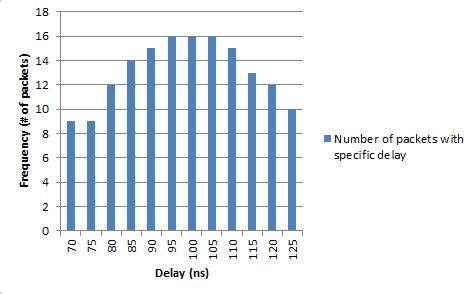
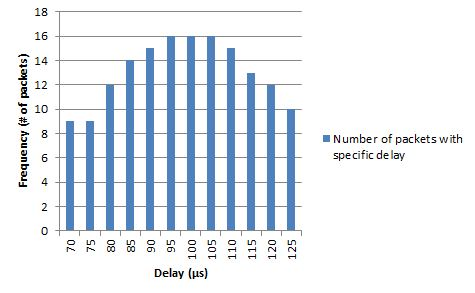
Final modifications done

Changed region(s): [[0.0295, 0.0307, 0.6498, 0.8908], [0.6793, 0.4608, 0.9747, 0.5529], [0.3249, 0.8908, 0.443, 0.9522]]

diff --git a/doc/thesis/report.tex b/doc/thesis/report.tex
@@ -119,38 +119,40 @@ Cette étude conduit à la création d'un prototype qui propose une infrastructu
 
 \section{Importance of Study}
 \paragraph{}
-The global electrical grid is the basis that gives us this quality of life that most people around the world enjoy. The global electrical grid is sometimes called the largest machine ever made by man \cite{ref1}. It is a widespread and distributed machine that provides power to households, companies and organizations. Therefore the whole world's economy depends on it. The electrical grid knows numerous problems such as blackouts, and current instabilities that cost billions of dollars yearly to both the utilities and insurances. The grid suffers from the problem of peak hours where energy consumption is at its highest level and that one single utility cannot provide.
+The global electrical grid is the basis that gives us this quality of life that most people around the world enjoy. The global electrical grid is sometimes called the largest machine ever made by man \cite{ref1}. It is a widespread and distributed machine that provides power to households, companies and organizations. Therefore the whole world's economy depends on it. The electrical grid knows numerous problems such as blackouts, and current instabilities that cost billions of dollars yearly to both the utilities and insurances.
 \paragraph{}
-The \glsreset{sg}\gls{sg} comes as a solution to the problems of the traditional electrical grid. \gls{sg} is an intelligent, auto-balancing, self-monitoring, and self-healing electrical grid \cite{ref2} and whose energy sources are distributed between utilities and consumers. The nature of the \gls{sg} as having distributed energy sources, reduces numerous losses that arise from the long distance transmission lines, and also from the stress and the overload of the electrical lines.
+The global energy demand is significantly growing and the sources of energy such as fossil energies is becoming more scarce. Therefore, there is a need to move from depending on fossil energy sources to renewable energies such as Solar energy, wind energy and thermal energy. In addition, these renewable energies should be distributed throughout the power grid and permit to have less energy transmission costs.
+\paragraph{}
+The \glsreset{sg}\gls{sg} comes as a solution to the weaknesses of the traditional electrical grid. \gls{sg} is an intelligent, auto-balancing, self-monitoring, and self-healing electrical grid \cite{ref2} and whose energy sources are distributed between utilities and consumers. The nature of the \gls{sg} as having distributed energy sources, reduces numerous losses that arise from the long distance transmission lines, and also from the stress and the overload of the electrical lines.
 \paragraph{}
 Another revolution began, and it is taking place in the Information Technology. It is called the \glsreset{iot}\gls{iot}. \gls{iot} is the era of autonomous machine being able to produce and consume information, and being able to act autonomously without the guidance of humans, to perform their tasks. Cisco predicts that the number of devices to be connected to the Internet in 2020 will break the 50 billions devices from 500 million in 2003. That would make 6.58 devices connected for each person in the world whereas that same ratio was 0.07 17 years earlier \cite{ref3}. This clearly shows that the shift to the \gls{iot} will be exponential.
 \paragraph{}
-\glsreset{sg}\gls{sg} should benefit from the \gls{iot}. The integration of the \gls{sg} into the \gls{iot} constitutes the main topic of this study and goes along with increasing interest recently raised in both academia and industry, on the inherent correspondence between \gls{sg} and \gls{iot}. This  correspondence stems mainly from the need to disseminate information between the \gls{sg} components in order to make optimal decisions about energy use. This information dissemination could only be optimal when deploying ubiquitous sensoring and metering, and using the available network infrastructure, i.e. the Internet.   
+\glsreset{sg}\gls{sg} should benefit from the \gls{iot}. This integration should constitute the main topic of this study and goes along with increasing interest recently raised in both academia and industry, on the inherent correspondence between \gls{sg} and \gls{iot}. This  correspondence stems mainly from the need to disseminate information between the \gls{sg} components in order to make optimal decisions about energy use. This information dissemination could only be optimal when deploying ubiquitous sensoring and metering, and using the available network infrastructure, i.e. the Internet.   
 
 
 \section{Rationale of Study}
 \paragraph{}
-This project has been done in order to investigate ways the \gls{iot} can benefit the \gls{sg}. The Smart Grid needs a set of novel functionalities. One of these ideas is the two-way communication that will make it possible for the utility to communicate with consumers and vice versa. This is possible in the Internet Of Things as devices in \gls{iot} communicate by producing and consuming information. Numerous ideas assume the existence of the two-way communication such as the \gls{dr} which offers a set of services for both the power provider and the consumer.
+This project has been done in order to investigate ways the \gls{iot} can benefit the \gls{sg}. The Smart Grid needs a set of novel functionalities. One of these is the two-way communication that will make it possible for the utility to communicate with consumers and vice versa. This is possible in the Internet Of Things as devices in \gls{iot} communicate by producing and consuming information. Numerous ideas assume the existence of the two-way communication such as the \gls{dr} which offers a set of services for both the power provider and the consumer.
 \paragraph{}
-The \glsreset{iot}\gls{iot} uses different technologies such as \gls{wsn}, \gls{rfid}, \gls{ipv6} and \gls{6lowpan}\glsreset{6lowpan} which makes the Internet of Things a very heterogeneous and complex system \cite{ref4}. One of the challenges in \gls{iot} is to deal with this heterogeneity in order to make the communication smooth and transparent to the parties involved. This heterogeneity should become invisible to any two devices willing to communicate in the \gls{iot}.
+The \glsreset{iot}\gls{iot} uses different technologies such as \gls{wsn}, \gls{rfid}, \gls{ipv6} and \gls{6lowpan}\glsreset{6lowpan} which makes the Internet of Things a very heterogeneous and complex system \cite{ref4}. One of the challenges is to deal with this heterogeneity in order to make the communication smooth and transparent to the parties involved. This heterogeneity should become invisible to any two devices willing to communicate in the \gls{iot}.
 
 \section{Problem Statement}
 \paragraph{}
-The \glsreset{sg} \gls{sg} relies on the two-way communication to build a whole communication framework and a protocol stack namely the \glsreset{dr}\gls{dr} and other services built on top of this last. From the consumer's/household's perspective or more precisely the household's side,there are smart home energy management systems in the market nowadays, but none of them offers an integration with \gls{sg}. To have such an integration with \gls{sg}, there is a need for the two-way communication, in order to make it possible for any appliance to report its real-time energy consumption, and to be able to be controlled remotely. Such pillar is missing for the time being, and therefore the integration of the smart home within the smart grid is not possible. Also, in order for \gls{sg} to be integrated into the \gls{iot}, all devices should be able to communicate in the two ways.
+The \glsreset{sg} \gls{sg} relies on the two-way communication to build a whole communication framework and a protocol stack namely the \glsreset{dr}\gls{dr} and other services built on top of this last. From the consumer's/household's perspective or more precisely the household's side,there are smart energy management systems in the market nowadays, but none of them offers an integration with \gls{sg}. Such an integration through the two-way communication will to make it possible for any appliance to report its real-time energy consumption, and to be controlled remotely. Such pillar is missing for the time being, and therefore the integration of the smart home within the smart grid is not doable. Also, in order for \gls{sg} to be integrated into the \gls{iot}, all devices should be able to communicate in the two ways.
 \paragraph{}
-\gls{sg} counts on various technologies to achieve its main goals. This use of different technologies comes with a problem which is the heterogeneous nature of the system. As numerous components count on different technologies, there is a need to interface them in order to make this heterogeneity transparent to the all components of the system. As a matter of fact, a software should be built within the system whose main goal is to take care of making the communication technology-transparent. This component will give the possibility to all components of the system to work hand-in-hand in order to achieve their goals independently of the data link layer (Ethernet, Wifi or Zigbee) or the network layer technology (\gls{ipv4} or \gls{ipv6}) they are using.
+\gls{sg} counts on various technologies to achieve its main goals. The use of different technologies comes at a cost which is the heterogeneous nature of the system. As numerous components count on different technologies, there is a need to interface them in order to make this heterogeneity transparent to the all components of the system. As a matter of fact, a software should be built within the system whose main goal is to take care of making the communication technology-transparent. This component will give the possibility to all components of the system to work hand-in-hand in order to achieve their goals independently of the data link layer (Ethernet, Wifi or Zigbee) or the network layer technology (\gls{ipv4} or \gls{ipv6}) they are using.
 
 \section{Purpose of Study}
  \paragraph{}
-The goal of the study is to solve the problems introduced in the problem statement section. This means creating the two-way communication, and solving the heterogeneity that arises from integrating smart homes with the smart grid. In fact, each components in the smart home will become part of the Internet of Things by making it communicate with any device in the Internet by having an \gls{ipv6} address using \gls{6lowpan} whose goal is to provide the TCP/IP to the smallest devices and also those with the least computational resources.
+The goal of the study is create the two-way communication, and solve the heterogeneity that arises from integrating smart homes with the smart grid. In fact, each components in the smart home will become part of the Internet of Things by making it communicate with any device in the Internet by having an \gls{ipv6} address using \gls{6lowpan} whose goal is to provide the TCP/IP to the smallest devices and also those with the least computational resources.
 \paragraph{}
-The first purpose of this study is to create a testbed having the two-way communication and also being able to make use of it in order to build richer applications based on it. To do so, \gls{6lowpan} would had to be integrated within every device in the \gls{wsn}. This would make every sensor node (mote) identifiable in the network, ready to communicate and be part of the \gls{iot}. This communication will go in both directions and based on \gls{6lowpan}; the two-way communication will be built.
+The first purpose of this study is to create a testbed with the two-way communication. To do so, \gls{6lowpan} would had to be integrated within every device in the \gls{wsn}. This would make every sensor node (mote) identifiable in the network, ready to communicate and be part of the \gls{iot}. This communication will go in both directions and based on \gls{6lowpan}; the two-way communication will be built.
 \paragraph{}
-The second purpose of this study is to solve the heterogeneity problem that arises from the integration of smart homes into the grid and also when making the whole system part of the \glsreset{iot}\gls{iot}. Solving such a problem means having an extra component that will track all  packets and change them to fit the standards of the targeted component. This will make of this additional component a middleman and that would make the heterogeneity problem disappear.
+The second purpose of this study is to hide the heterogeneity that arises from the integration of smart homes into the grid and also when making the whole system part of the \glsreset{iot}\gls{iot}. To solve such a problem, we add an extra component that will track all  packets and change them to fit the standards of the targeted component.
 
 \section{Scope of Study}
 \paragraph{}
-This study aims at solving the two problems presented in section 1.3. To do so, a variety of tools and technologies were used for this purpose.The two problems could not be solved one independently of the other. Even though the problems seems to be separate, one cannot solve  the first problem without having to solve the second. In other words, after the creation of the two-way communication in the \glsreset{wsn}\gls{wsn} which adopts \gls{ipv6} over \gls{6lowpan}, other networks can only support \gls{ipv4} and therefore the communication would not be possible, and this is due to the heterogeneous nature of the system. This is why the two-way communication was created, but only after solving the heterogeneity problem, everything worked.
+A variety of tools and technologies were used for this study.The two problems could not be solved one independently of the other. Even though the problems seems to be separate, one cannot solve  the first problem without having to solve the second. In other words, after the creation of the two-way communication in the \glsreset{wsn}\gls{wsn} which adopts \gls{ipv6} over \gls{6lowpan}, other networks can only support \gls{ipv4} and therefore the communication would not be possible, and this is due to the heterogeneous nature of the system. This is why the two-way communication was created, but only after solving the heterogeneity problem, everything worked.
 The system is divided into four subsystems:
 \begin{itemize}
 \item The fully \gls{ipv6} supported \gls{wsn}
@@ -164,7 +166,7 @@ Each of these four components is there to solve part of the problem. Each of the
 It is important to note that some of the components will be discussed from the architectural point in Chapter 4 but not from an implementation aspect in Chapter 5. The sole reason behind this is the fact that some of the equipment required for this thesis were not on time and therefore the parts in the implementation requiring such equipment were omitted in order to meet the deadlines.
 \section{Outcome of the Study}
 \paragraph{}
-The outcome of the thesis is to design and implement a test-bed that is able to show the two-way communication in action. It will also have to show its integration into the \glsreset{iot}\gls{iot} by showing that every node in the system can communicate autonomously and with any other node in the Internet. Another \gls{iot} concept is the ability of any node in the \gls{wsn} to consume and produce information that is communicated through the network.
+The outcome of the thesis is to design and implement a test-bed that will be integrated into the \glsreset{iot}\gls{iot} by showing that every node in the system can communicate autonomously and with any other node in the Internet. Another \gls{iot} concept is the ability of any node in the \gls{wsn} to consume and produce information that is communicated through the network.
 \paragraph{}
 The autonomous production of information is shown by the fact that every sensor node in the \gls{wsn} reads sensory data from its sensors, that are attached to appliance, in order to sense their consumption. This information about consumption is produced and communicated periodically. The consumption of data is proved by showing the execution of the commands communicated through the network by external nodes in the \gls{iot}. These commands request the sensor node to turn On or Off an appliance.
 \paragraph{}
@@ -278,16 +280,24 @@ The system is divided into nine components, as depicted in figure \ref{fig:gen_a
 
 \section{General Architecture of the System}
 \paragraph{}
-The general architecture is depicted in figure \ref{fig:gen_architecture}. This figure shows the existing components and their interactions. Each set of components appear within a box as this last refers to what hardware are the components deployed in as it is labeled in the box.
+The general architecture is depicted in figure \ref{fig:gen_architecture}. This figure shows the existing components and their interactions. Each set of components appear within a box as this last refers to what hardware are the components deployed in as it is labeled in the box. There are are five hardware components:
+\begin{itemize}
+\item Sensor Node
+\item Mote Sink
+\item Gateway
+\item Middle-ware
+\item Smart phone
+\end{itemize}
+Each hardware component hosts a set of software subsystems that will be explained more clearly in the sections 4.4 to 4.11.
 \begin{figure}[htbp]
 \centering
 \includegraphics[width=17cm,height=20cm,keepaspectratio]{img/general_architecture.jpg}
-\caption{General architecture depicting the main components of the system}
+\caption{General architecture depicting the main components of the system and the information flow}
 \label{fig:gen_architecture}
 \end{figure}
 %\clearpage
 \paragraph{}
-Now that the general architecture has been defined, the question that should be asked is whether all these components operate in the same layer in the \gls{osi} model and if not, in which layer does each of these components reside. As an answer to such a question, figure \ref{fig:layered_view} is here to show in what layer does every component operates.
+Now that the general architecture has been established, the question that should be asked is whether all these components operate in the same layer in the \gls{osi} model and if not, in which layer does each of these components reside. As an answer to such a question, figure \ref{fig:layered_view} is here to show in what layer does every component operates.
 
 \begin{figure}[htbp]
 \centering
@@ -396,7 +406,7 @@ Figure \ref{fig:appliance_control} depicts the architecture as well as the data 
 \begin{figure}[htbp]
 \centering
 \includegraphics[scale=0.35]{img/appliance_control.jpg}
-\caption{TCP Server controlling appliance}
+\caption{TCP Server controlling appliance information flow}
 \label{fig:appliance_control}
 \end{figure}
 
@@ -712,6 +722,8 @@ The data collected shows even though the delay in the \gls{wsn} is high,
  
  \paragraph{}
  The good news in experiment 1 is that the priority of packets brings benefit to the network. Even though the traffic grows exponentially, the average delay stays constant. However, the jitter follows the traffic's trend, but still the average delay shows good results. 
+ \paragraph{}
+ It is to be noted that this experiment did not get to the point where the network was saturated. In fact, Zigbee has a bandwidth of 250 Kbps. However, experiment one attained less than 1 Kbps which does not reflect clearly how the network would react to such a high bandwidth utilization. The point is that even though the delay seems constant in experiment 1, that does not give any indications about how the delay and jitter varies as a function of the percentage of the bandwidth used.
  
 \subsection{Experiment 2}
 \paragraph{}
@@ -720,14 +732,14 @@ The second experiment's goal is to measure the contribution of the Gateway Packe
 \begin{table}[htbp]
     \begin{tabular}{ll}
     \hline
-    Delay (ms) & Jitter (ms) \\ \hline
-    0.1        & 0.0         \\ 
+    Delay ($\mu s$) & Jitter ($\mu s$) \\ \hline
+    0.1        & 0.03         \\ 
     \end{tabular}
     \caption{Experiment 2 delay and jitter}
         \label{table:exp2}
 \end{table}
 \paragraph{}
-The transformation process's elapsed time is measured in milliseconds and from table \ref{table:exp2}, one can see that the average delay is on average 0.1 milliseconds whereas the jitter is around 0 milliseconds meaning that the process's time varies between a few nanoseconds to at most 150 nanoseconds. Depending on the machine's load. The distribution of the delay frequency is shown the histogram depicted in figure \ref{fig:histogram}. From this figure one can conclude that the delay is normally distributed
+The transformation process's elapsed time is measured in microseconds and from table \ref{table:exp2}, one can see that the average delay is on average 0.1 milliseconds whereas the jitter is around 0.03 milliseconds meaning that the process's time varies between a few microseconds to at most 150 microseconds. In addition, depending on the machine's load, the distribution of the delay frequency is shown the histogram depicted in figure \ref{fig:histogram}. From this figure one can conclude that the delay is normally distributed
 \begin{figure}[htbp]
  \centering
  \includegraphics[scale=0.9]{img/histogram.JPG}
@@ -889,8 +901,6 @@ There is a set of instructions to follow in order as some of the components must
 \item Turn on the wireless sensor nodes one by one
 \end{enumerate}
 
-\paragraph{}
-You should be able to get sensor data periodically. The mobile client access for turning On and Off will be explained in the Appendix C.
 \end{appendices}
 
 \end{document}
